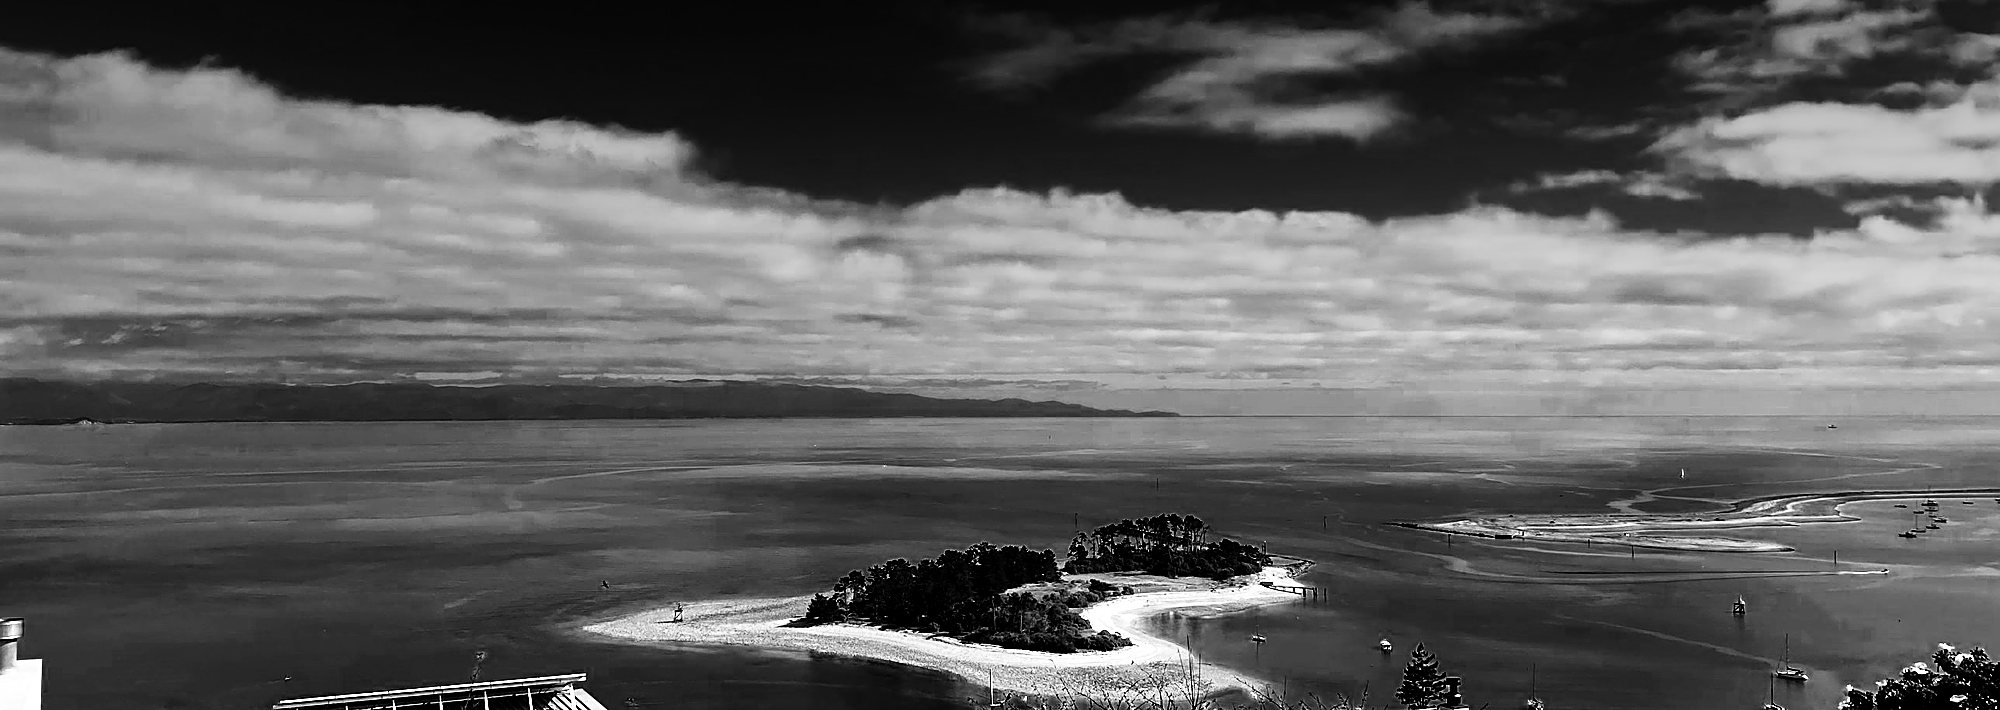
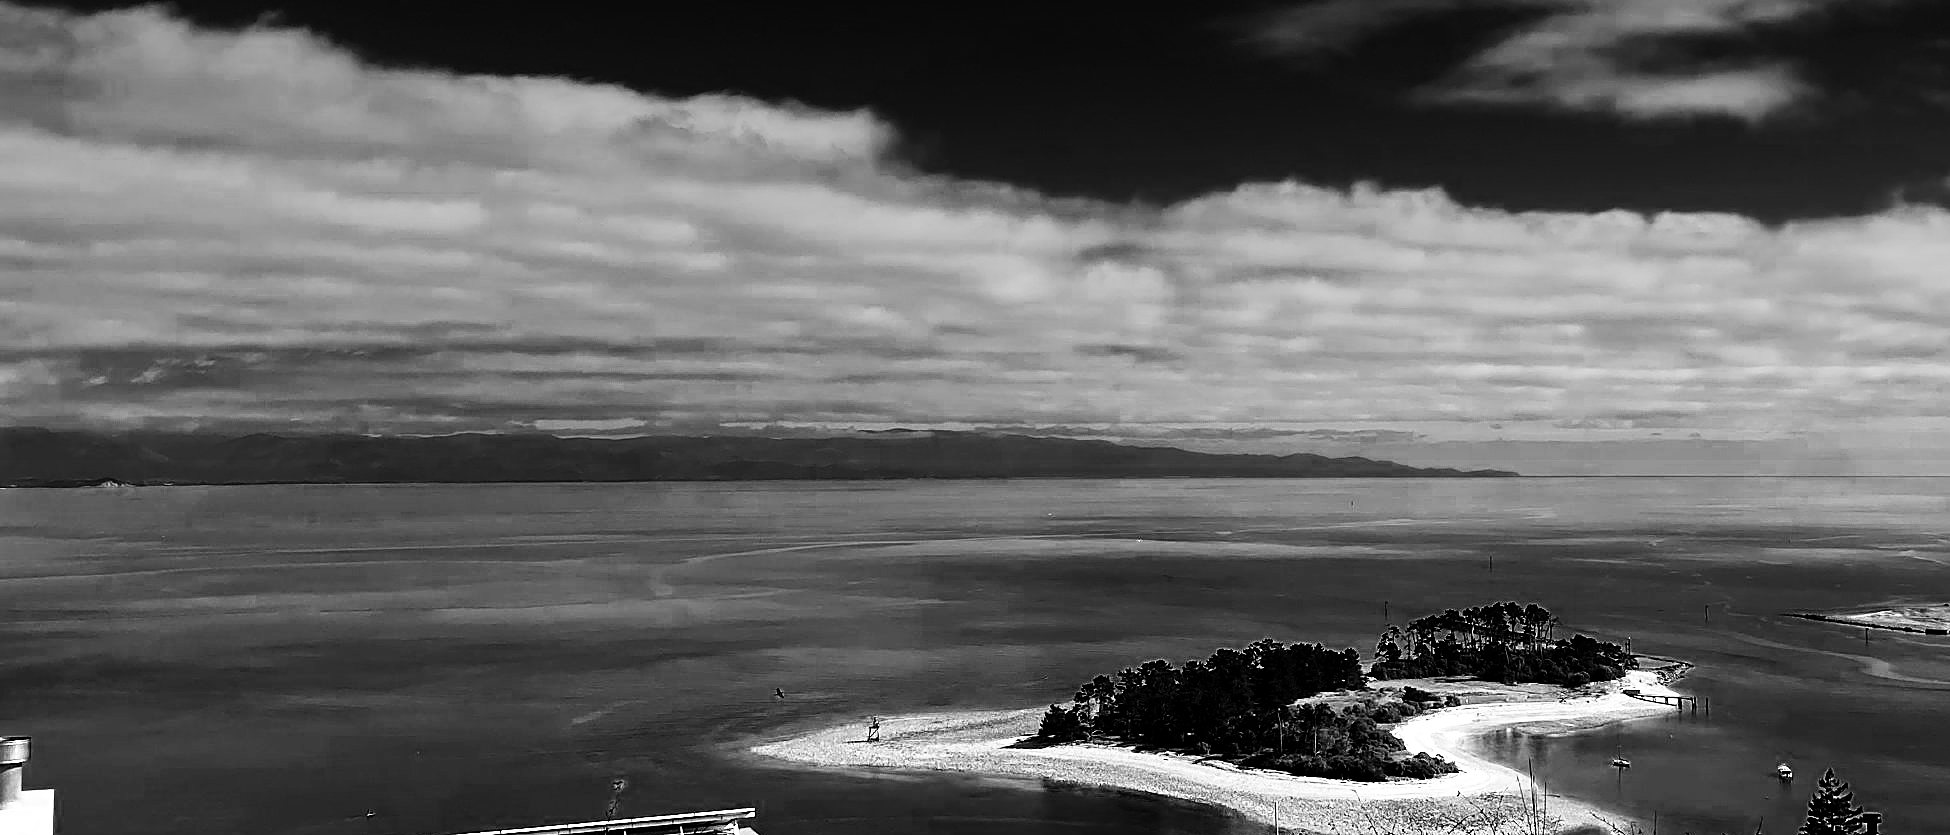
Add files via upload

diff --git a/styles.css b/styles.css
@@ -363,3 +363,10 @@
     @keyframes fadeUp{from{opacity:0;transform:translateY(12px);}to{opacity:1;transform:none;}}
   }
   @media (max-width:560px){ .banner.plain{padding:118px 0 40px;} .banner.plain .banner-inner{padding:0 20px;} }
+
+  /* photo header with the text on the left (keeps the island clear) */
+  .banner.left{justify-content:flex-start;}
+  .banner.left .banner-inner{margin-left:max(0px,calc((100% - var(--wrap)) / 2 + 8px));align-items:flex-start;text-align:left;max-width:520px;}
+  .banner.left .banner-box p{margin:0;}
+  .banner.left .actions{justify-content:flex-start;}
+  @media (max-width:900px){ .banner.left{background-position:62% 80% !important;} .banner.left .banner-inner{margin-left:0;} }

diff --git a/web-design-for-tradies-nelson.html b/web-design-for-tradies-nelson.html
@@ -53,7 +53,7 @@
 
 <main>
 
-  <figure class="banner" style="background-image:url('images/header-tradies.jpg');background-position:center 40%;margin:0;" aria-label="Haulashore Island and Tasman Bay from the hills above Nelson">
+  <figure class="banner left" style="background-image:url('images/header-tradies.jpg');background-position:center 82%;margin:0;" aria-label="Haulashore Island and Tasman Bay from the hills above Nelson">
     <div class="banner-inner">
       <div class="banner-box">
         <h1>Website design for tradies in Nelson</h1>
